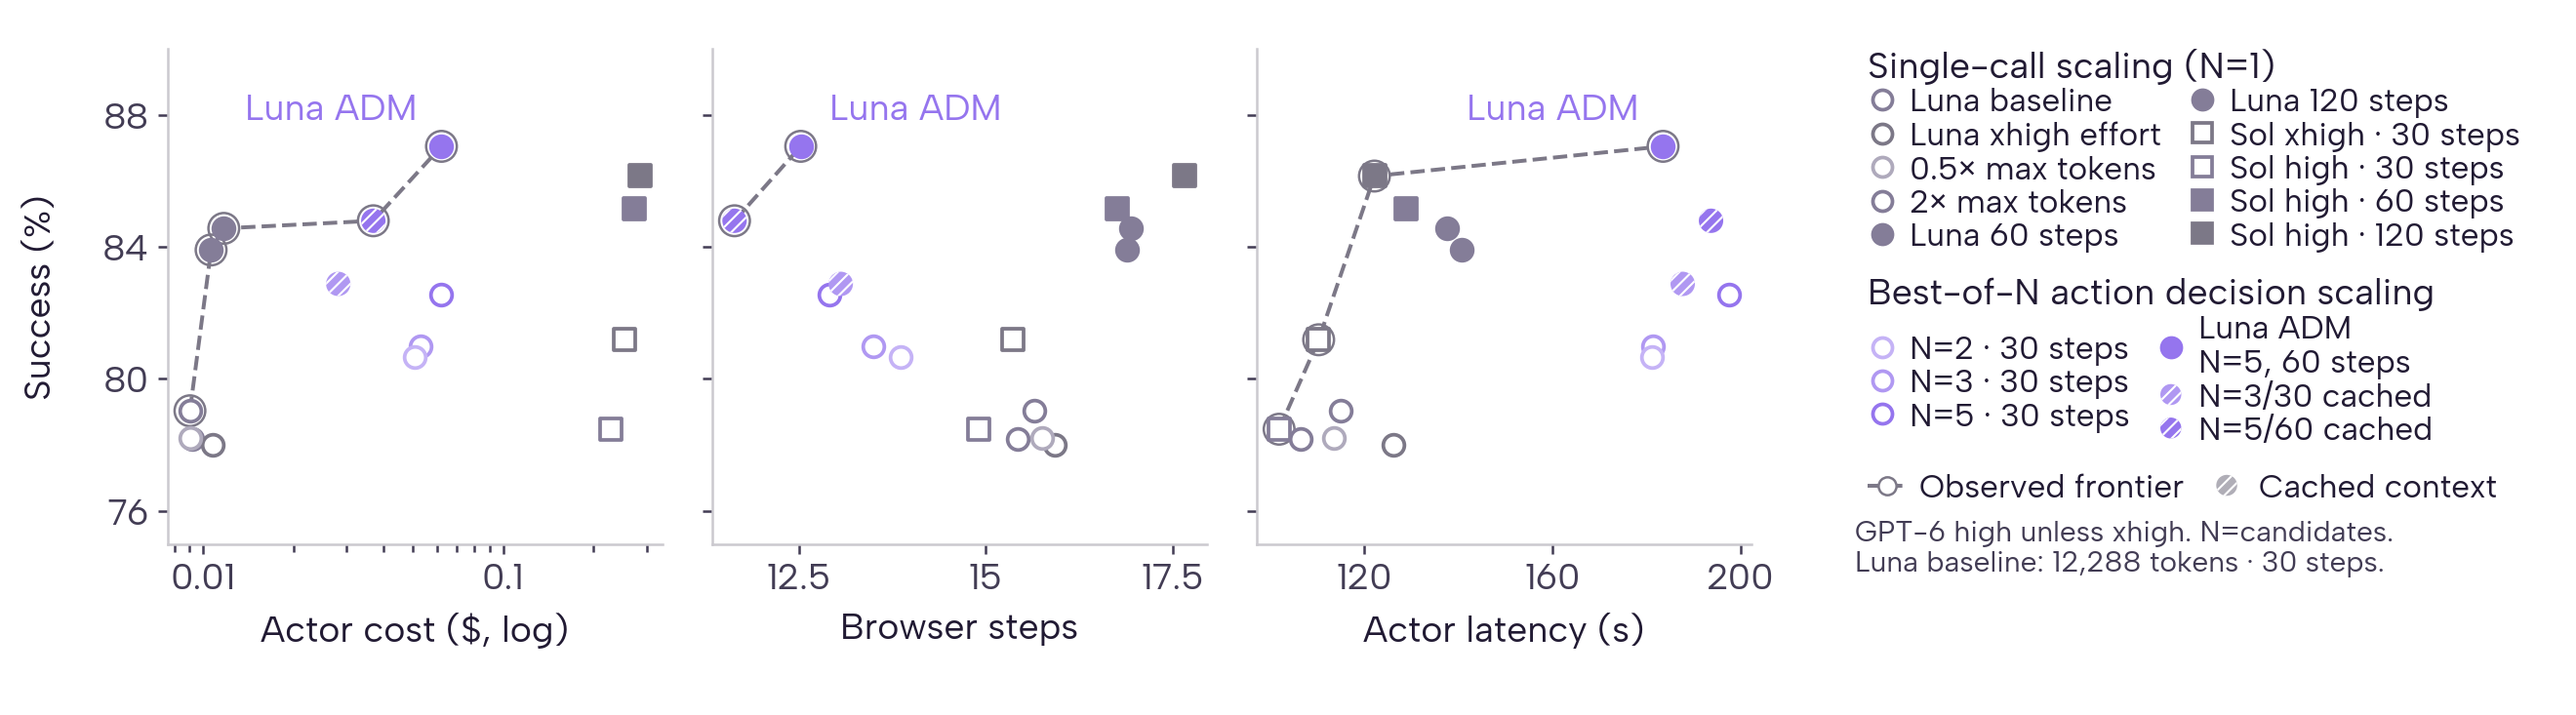
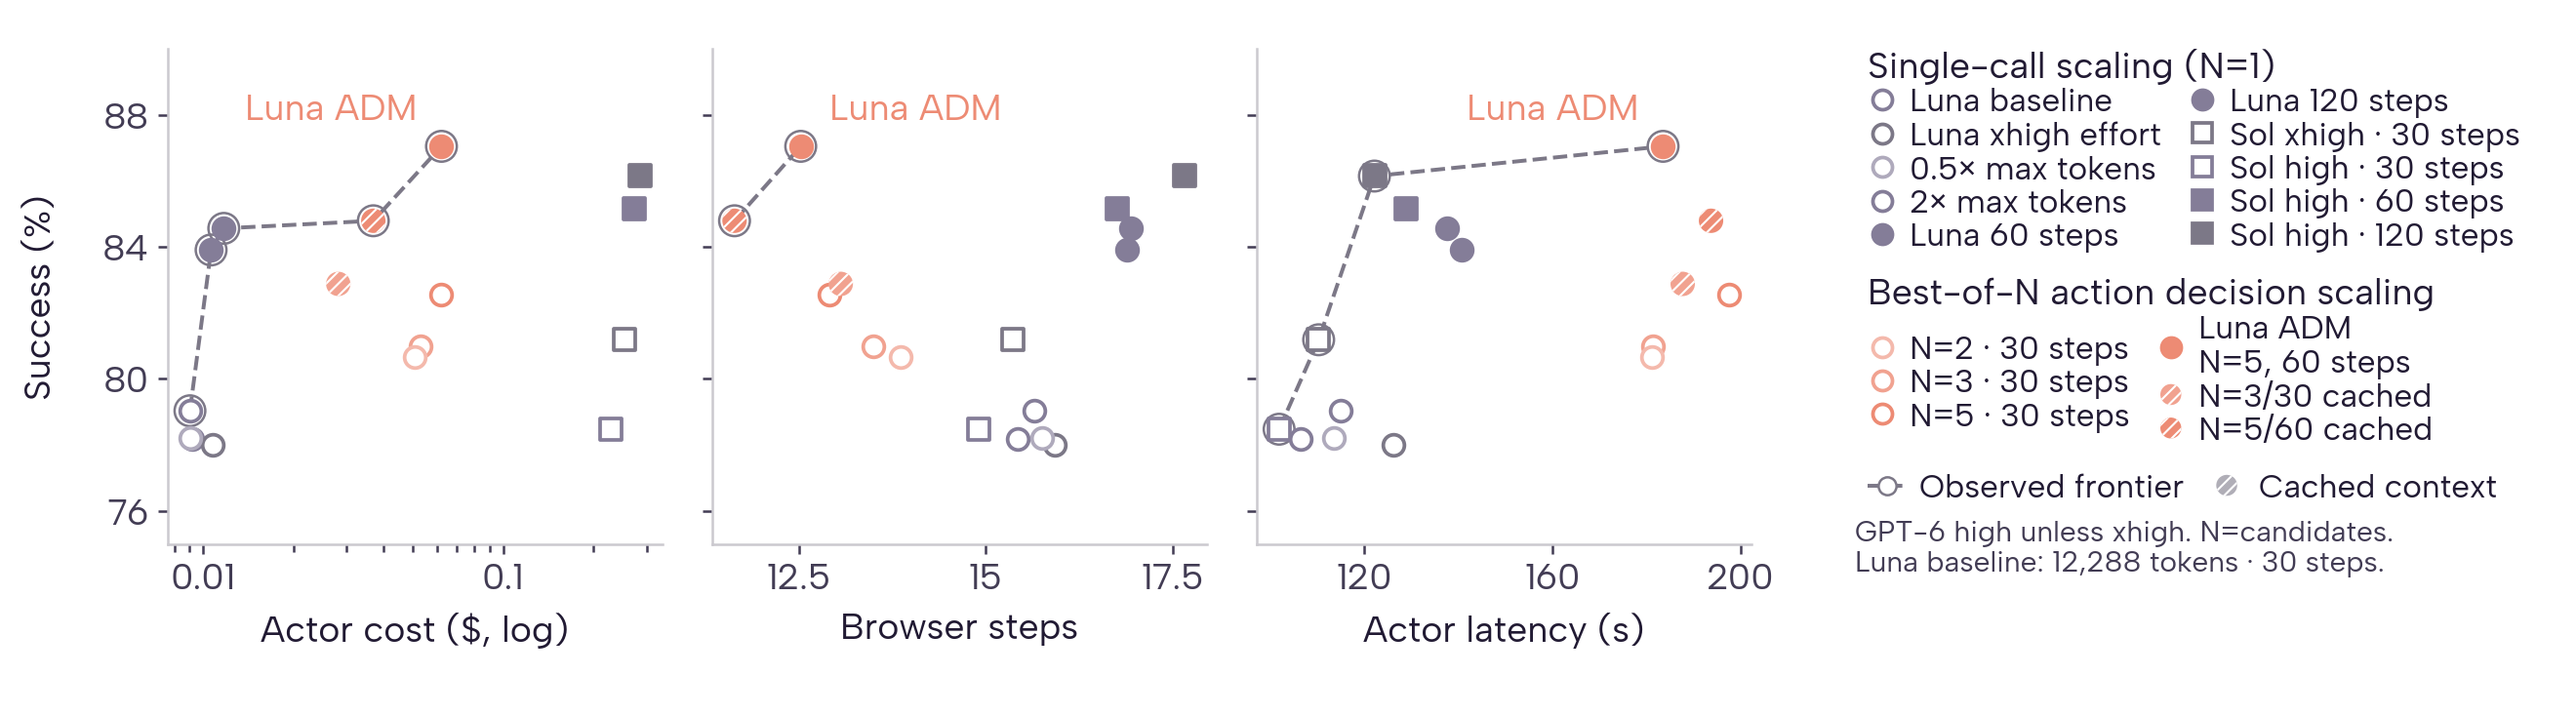
Highlight action decision scaling in salmon in right-legend Pareto figure

diff --git a/openwebrl/docs/arm_results/browsercode_inference_scaling_20261031/plot_browsercode_pareto_highlight_right_legend_preview.py b/openwebrl/docs/arm_results/browsercode_inference_scaling_20261031/plot_browsercode_pareto_highlight_right_legend_preview.py
@@ -2,7 +2,7 @@
 """Separate sixteen-setting Pareto preview with right legends and shaded caches.
 
 Reuses the frozen highlight builder, retaining all own-valid coordinates, axis
-ranges, colors and observed frontiers. Cached markers use shaded circles. No experiment calls.
+ranges and observed frontiers. Action decision scaling uses salmon accents. Cached markers use shaded circles. No experiment calls.
 """
 # Shared semantic palette; source measurements and geometry are unchanged.
 from pathlib import Path as _PalettePath
@@ -127,6 +127,17 @@ def right_layout(fig, previous=None, height=2.4451461988304095):
 
 
 def build():
+    # Recolor this preview in memory; preserve sibling figures and all data.
+    def salmon_style(method, style):
+        label, marker, color, filled = style
+        fade = .40 if "parallel2" in method else .20 if "parallel3" in method or "n3_cached" in method else 0
+        return label, marker, palette_tint("LOOKAHEAD_TEACHER", fade), filled
+    for styles in (ORIGINAL.BASE.SCALING.STYLES, ORIGINAL.BASE.AVERAGE.SCALING.STYLES):
+        for method in list(styles):
+            if method.startswith("parallel"):
+                styles[method] = salmon_style(method, styles[method])
+    ORIGINAL.CACHED = {method: salmon_style(method, style)
+                       for method, style in ORIGINAL.CACHED.items()}
     fig, frontier, rows = ORIGINAL.build()
     matplotlib.rcParams["hatch.linewidth"] = .5
     assert len(rows) == 16
@@ -155,7 +166,8 @@ def main():
                   frontier=frontier,
                   styles=dict(layout=f"8.8 x {fig.get_figheight():.3f} inches; square panels; legends and footer on the right; no gridlines",
                               axes_box_aspect=1,
-                              cached="Light/base purple circles with white diagonal shading and no outline; matching method symbols and a shaded gray circle key",
+                              selection="Salmon action decision scaling; neutral single-call controls; lighter salmon for smaller candidate sets",
+                              cached="Light/base salmon circles with white diagonal shading and no outline; matching method symbols and a shaded gray circle key",
                               cached_marker=dict(marker="o", size_pt2=CACHE_SIZE, hatch=CACHE_HATCH, hatch_color="white", hatch_linewidth=.5, linewidth=0),
                               frontier="Original gray solid rings and dashed links, unchanged",
                               typography="Albert Sans; 9 pt axes/ticks/direct labels; 8 pt legends; 9 pt legend titles; 7.2 pt footer"),

diff --git a/openwebrl/docs/ARM_FINAL_RESULTS.md b/openwebrl/docs/ARM_FINAL_RESULTS.md
@@ -212,7 +212,7 @@ Dashed segments join the observed nondominated settings in each panel: minimize 
 
 ![Own-valid weighted Pareto plot with right-side legends and sixteen settings, including Sol high/120, Sol xhigh/30 and shaded cached N3/30 and N5/60](arm_results/browsercode_inference_scaling_20261031/browsercode_scaling_weighted_pareto_highlight_right_legend_preview.png)
 
-*Sol high/120 and Sol xhigh/30 are added as dark neutral-mauve squares: filled for 120 decisions, hollow for 30. Both use GPT-6 Sol with the original 12,288-token ceiling and 900-second agent deadline; reasoning effort is high and xhigh, respectively. All fourteen existing coordinates, including cached N3/30 and N5/60, are preserved. Each method uses its own valid tasks. Success and all actor means use the fixed planned benchmark weights 300/1,045, 595/1,045 and 150/1,045; this is not a pooled valid-only rate. Valid populations and live collection windows differ, so frontier membership is descriptive rather than a paired or causal comparison.*
+*Salmon highlights action decision scaling; neutral mauve denotes single-call scaling. Smaller candidate sets use lighter salmon, and cached runs retain white diagonal shading. Sol high/120 and Sol xhigh/30 are added as dark neutral-mauve squares: filled for 120 decisions, hollow for 30. Both use GPT-6 Sol with the original 12,288-token ceiling and 900-second agent deadline; reasoning effort is high and xhigh, respectively. All fourteen existing coordinates, including cached N3/30 and N5/60, are preserved. Each method uses its own valid tasks. Success and all actor means use the fixed planned benchmark weights 300/1,045, 595/1,045 and 150/1,045; this is not a pooled valid-only rate. Valid populations and live collection windows differ, so frontier membership is descriptive rather than a paired or causal comparison.*
 
 | Added setting | Recorded | Valid | Invalid | Successes | OM2W valid | OM2W successes | WebVoyager valid | WebVoyager successes | DeepShop valid | DeepShop successes |
 | --- | ---: | ---: | ---: | ---: | ---: | ---: | ---: | ---: | ---: | ---: |
